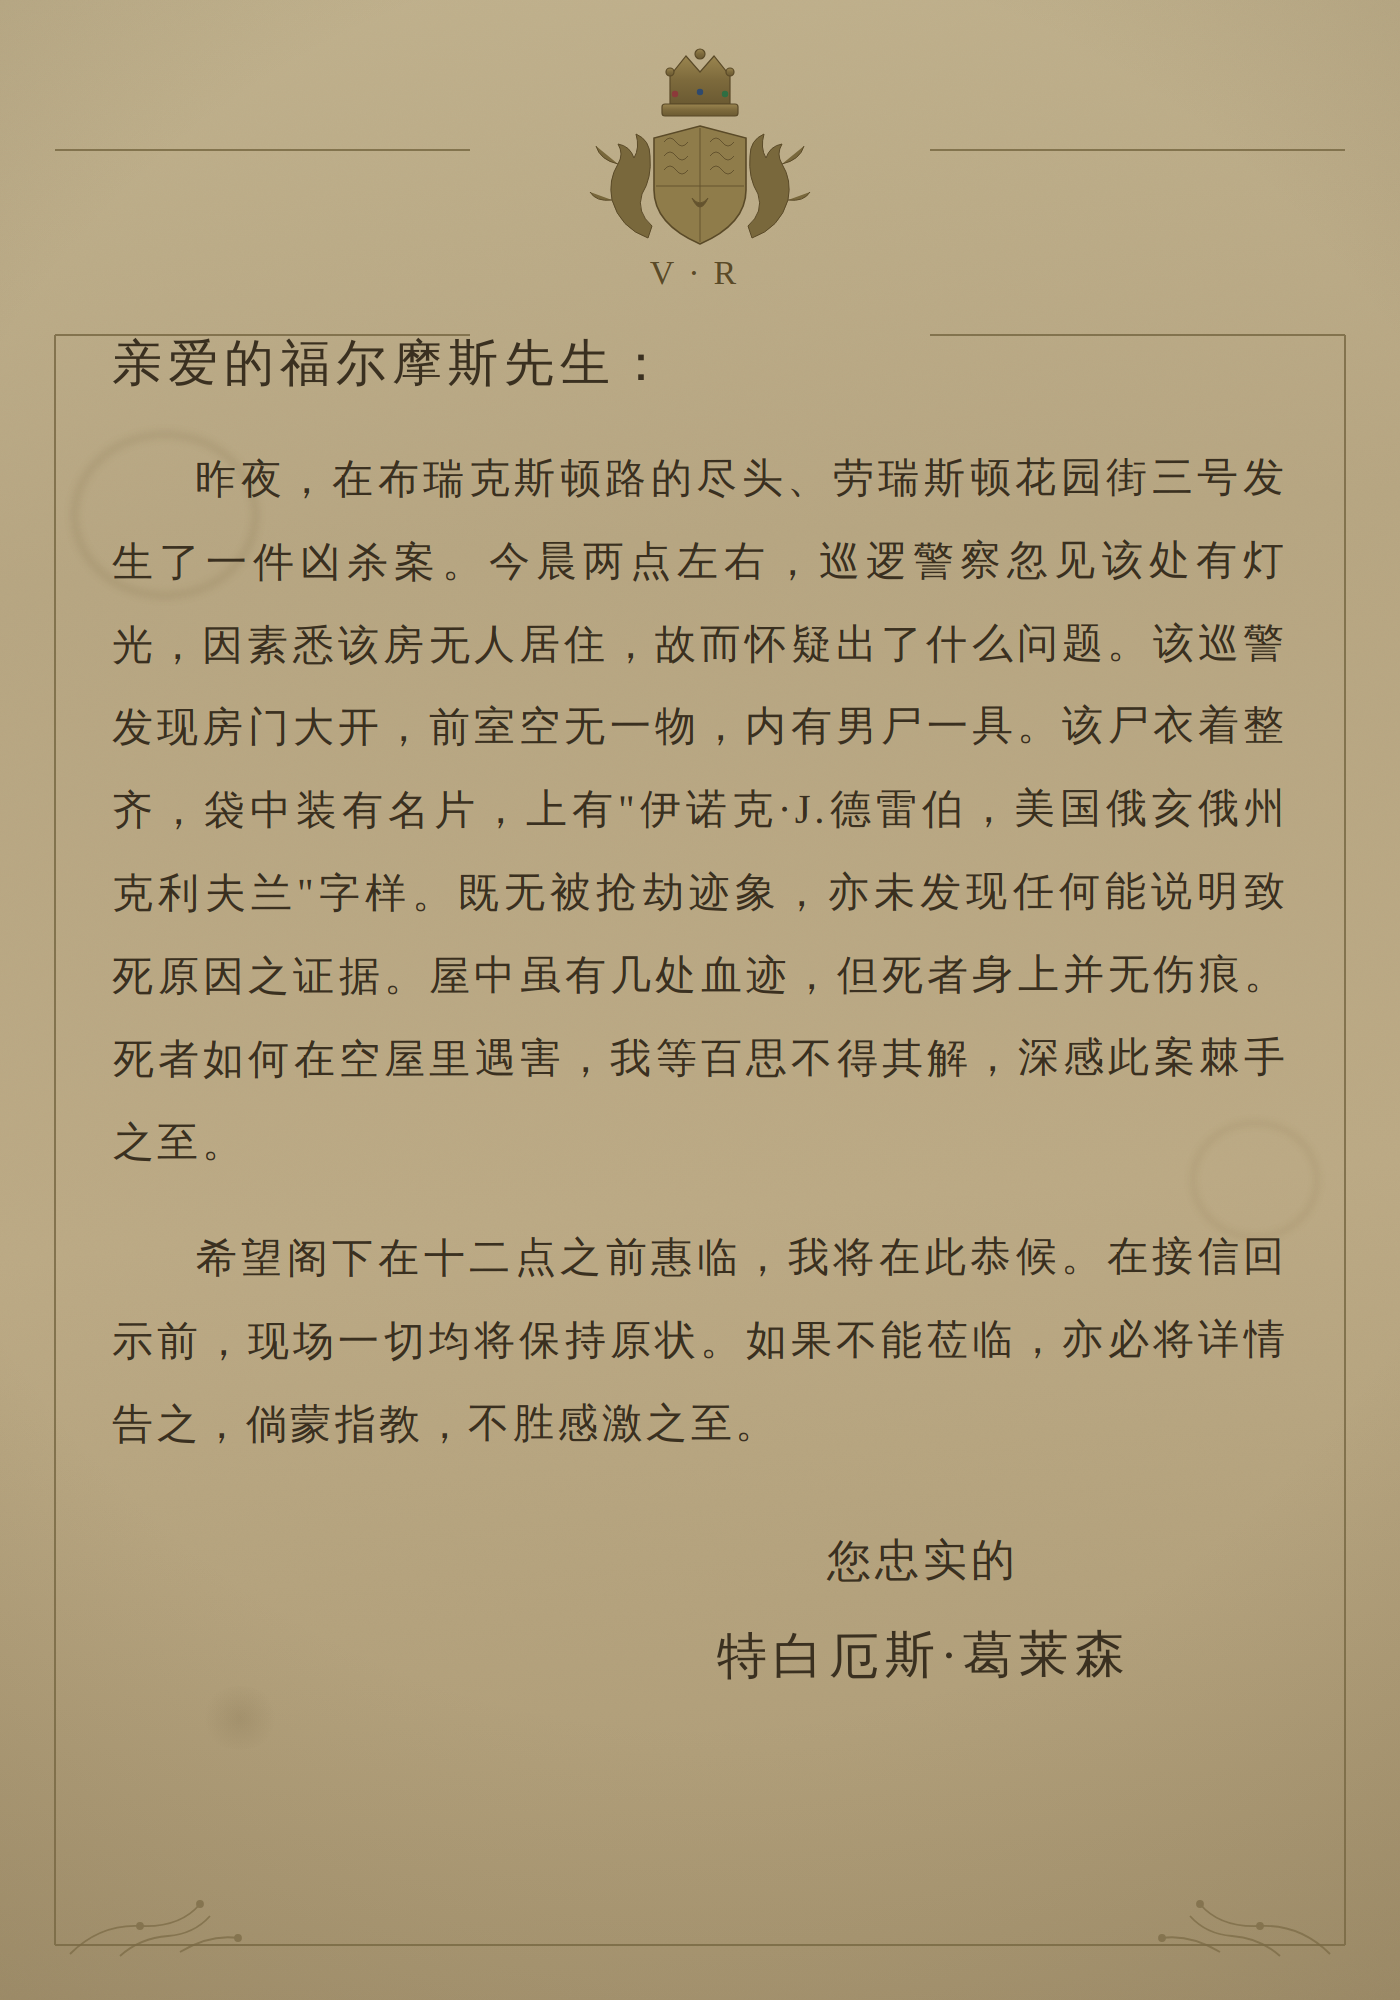
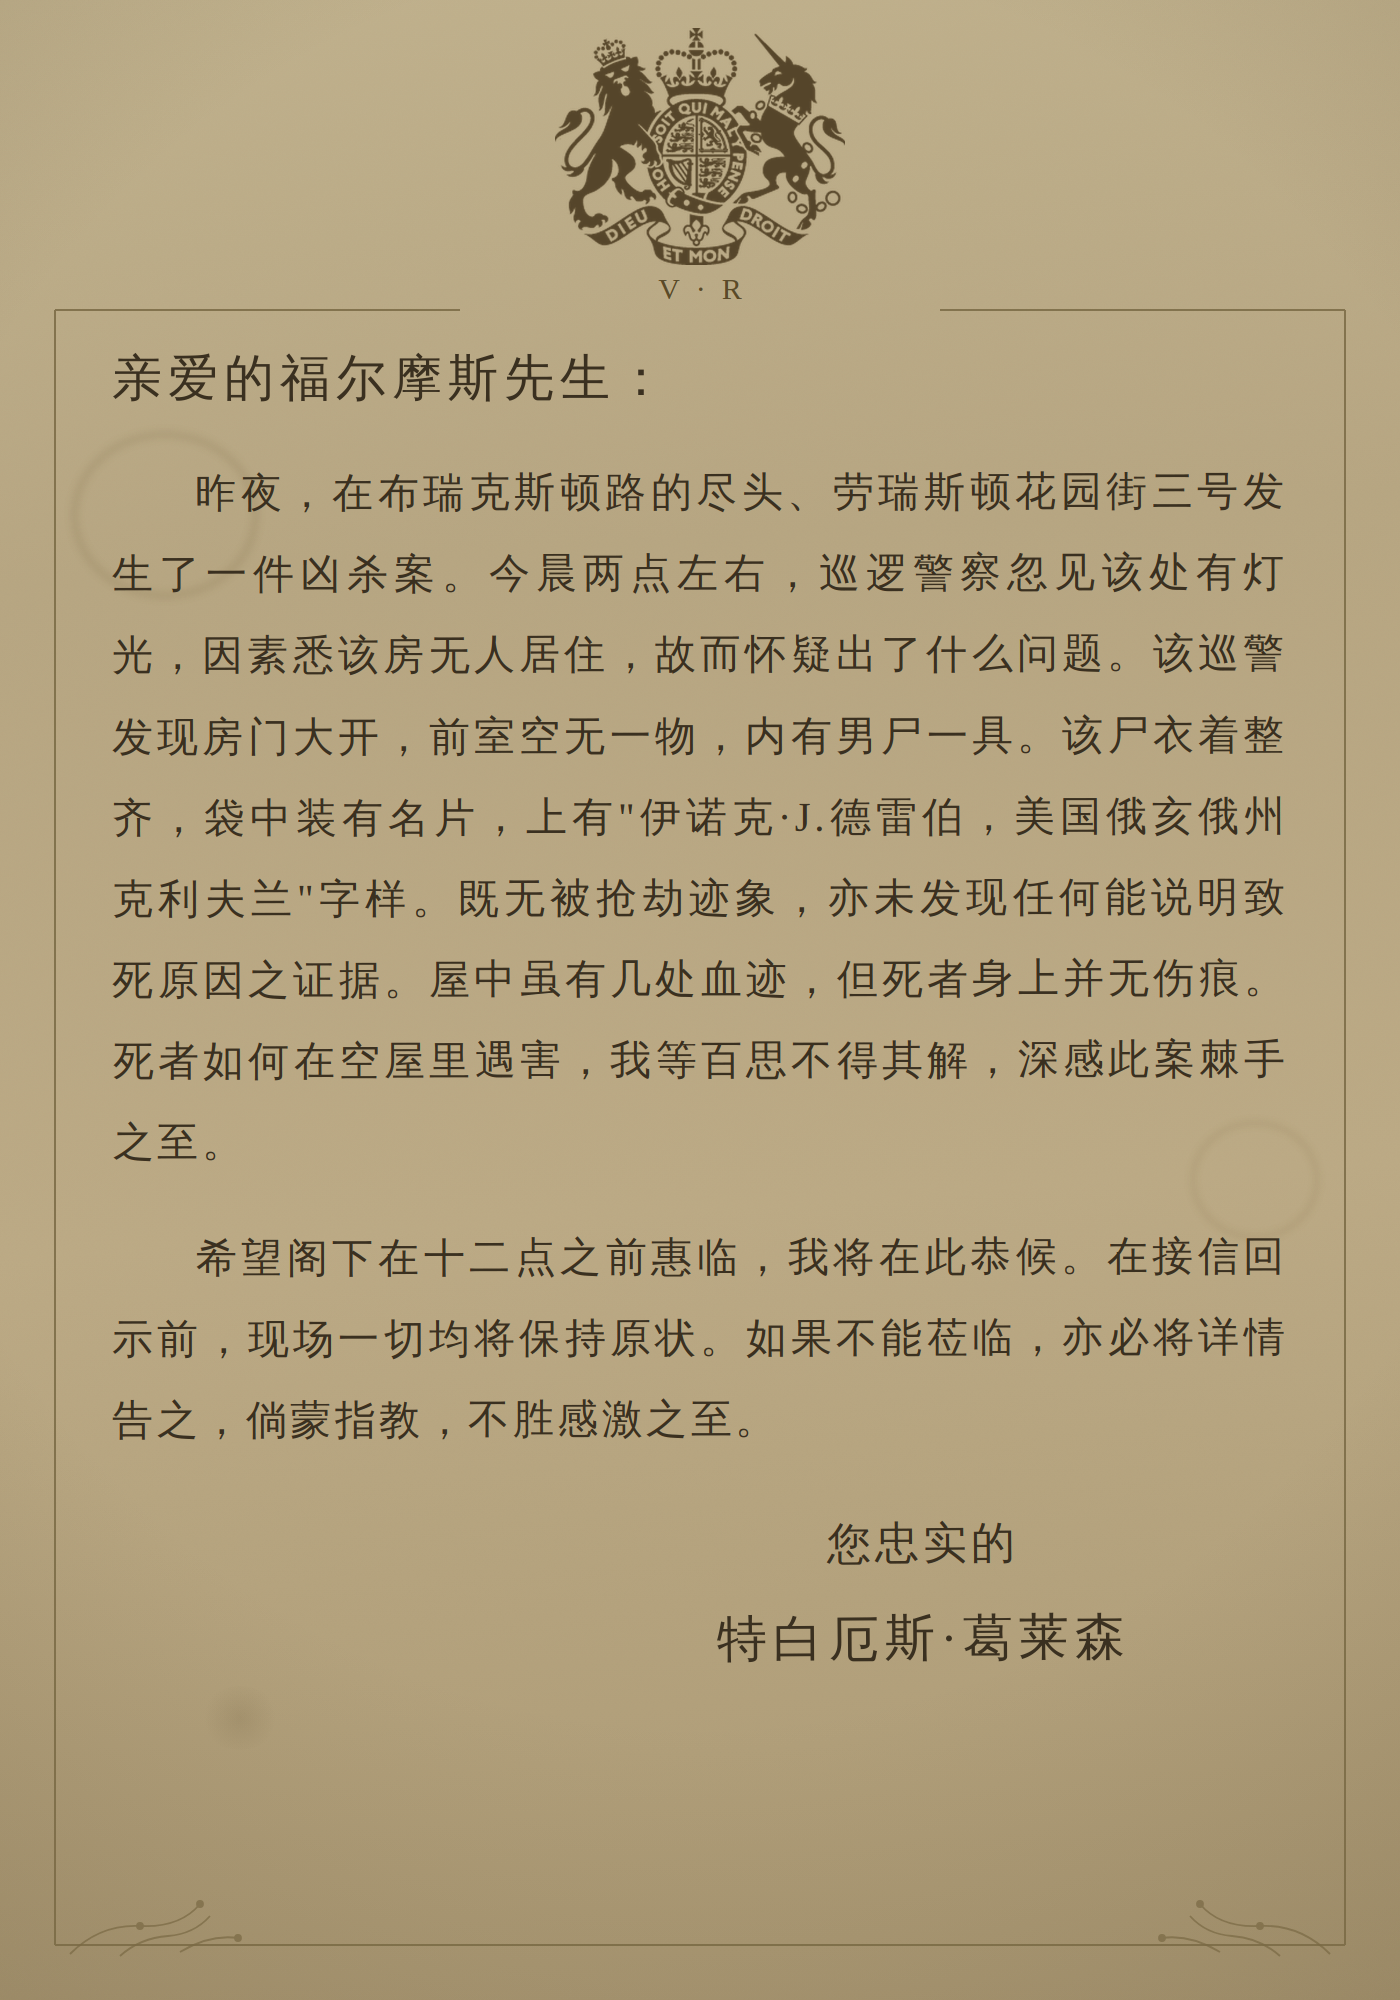
fix(素材): 信笺皇家纹章改用 GOV.UK 官方纹章资产（替换手绘 SVG）
Coze-Commit-Type: user
Coze-User-ID: 1065887343319849
Coze-Conversation-ID: 10830780

diff --git a/assets/ui_preview/letter_gregson.html b/assets/ui_preview/letter_gregson.html
@@ -21,12 +21,14 @@ body { width:1400px; height:2000px; overflow:hidden; }
 /* 边框：SVG 画三段式（顶部留纹章缺口） */
 .frame { position:absolute; inset:0; pointer-events:none; }
 /* 纹章 */
-.crest { position:absolute; left:50%; top:42px; transform:translateX(-50%); width:400px; height:250px; }
+.crest { position:absolute; left:50%; top:28px; transform:translateX(-50%); width:290px; }
+.crest img { display:block; width:100%; }
+.vr { position:absolute; left:0; right:0; top:272px; text-align:center; font-family:Georgia, serif; font-size:30px; letter-spacing:16px; color:#5a4a28; text-indent:16px; }
 /* 正文 */
-.inner { position:absolute; left:112px; right:112px; top:330px; bottom:150px; }
+.inner { position:absolute; left:112px; right:112px; top:345px; bottom:150px; }
 .salute { font-size:50px; letter-spacing:6px; margin-bottom:40px; }
-.p { font-size:41px; line-height:2.02; letter-spacing:3.5px; text-align:justify; margin-bottom:34px; text-indent:84px; transform:rotate(-.12deg); }
-.sig { margin-top:52px; margin-left:auto; width:62%; text-align:center; font-size:44px; line-height:2.0; letter-spacing:4px; transform:rotate(-.4deg); }
+.p { font-size:41px; line-height:1.98; letter-spacing:3.5px; text-align:justify; margin-bottom:34px; text-indent:84px; transform:rotate(-.12deg); }
+.sig { margin-top:40px; margin-left:auto; width:62%; text-align:center; font-size:44px; line-height:2.0; letter-spacing:4px; transform:rotate(-.4deg); }
 .sig .name { font-size:50px; letter-spacing:6px; }
 /* 底部角花 */
 .corner { position:absolute; bottom:36px; width:300px; height:100px; opacity:.8; }
@@ -39,50 +41,16 @@ body { width:1400px; height:2000px; overflow:hidden; }
 
   <svg class="frame" viewBox="0 0 1400 2000" preserveAspectRatio="none">
     <g stroke="#7a6a45" stroke-width="2" fill="none" opacity=".85">
-      <line x1="55" y1="335" x2="55" y2="1945"/>
-      <line x1="1345" y1="335" x2="1345" y2="1945"/>
+      <line x1="55" y1="310" x2="55" y2="1945"/>
+      <line x1="1345" y1="310" x2="1345" y2="1945"/>
       <line x1="55" y1="1945" x2="1345" y2="1945"/>
-      <line x1="55" y1="335" x2="470" y2="335"/>
-      <line x1="930" y1="335" x2="1345" y2="335"/>
-      <line x1="55" y1="150" x2="470" y2="150"/>
-      <line x1="930" y1="150" x2="1345" y2="150"/>
+      <line x1="55" y1="310" x2="460" y2="310"/>
+      <line x1="940" y1="310" x2="1345" y2="310"/>
     </g>
   </svg>
 
-  <svg class="crest" viewBox="0 0 400 250">
-    <defs>
-      <linearGradient id="gold" x1="0" y1="0" x2="0" y2="1">
-        <stop offset="0%" stop-color="#9a854f"/><stop offset="50%" stop-color="#7d6a3c"/><stop offset="100%" stop-color="#6b5a32"/>
-      </linearGradient>
-    </defs>
-    <!-- 皇冠 -->
-    <g fill="url(#gold)" stroke="#5a4a28" stroke-width="1.2">
-      <path d="M170 62 L170 34 L186 14 L200 30 L214 14 L230 34 L230 62 Z"/>
-      <circle cx="170" cy="30" r="4"/><circle cx="200" cy="12" r="5"/><circle cx="230" cy="30" r="4"/>
-      <rect x="162" y="62" width="76" height="12" rx="3"/>
-      <circle cx="175" cy="52" r="3.2" fill="#8c3a3a" stroke="none"/><circle cx="200" cy="50" r="3.2" fill="#2f4a6e" stroke="none"/><circle cx="225" cy="52" r="3.2" fill="#2f6e42" stroke="none"/>
-    </g>
-    <!-- 盾 -->
-    <g fill="#8f7c4a" stroke="#5a4a28" stroke-width="1.6">
-      <path d="M200 84 L246 96 L246 148 Q246 182 200 202 Q154 182 154 148 L154 96 Z"/>
-    </g>
-    <g stroke="#5a4a28" stroke-width="1" opacity=".8" fill="none">
-      <line x1="200" y1="86" x2="200" y2="200"/>
-      <line x1="156" y1="144" x2="244" y2="144"/>
-      <path d="M164 100 q6 -8 12 0 q6 8 12 0 M164 114 q6 -8 12 0 q6 8 12 0 M164 128 q6 -8 12 0 q6 8 12 0" />
-      <path d="M210 100 q6 -8 12 0 q6 8 12 0 M210 114 q6 -8 12 0 q6 8 12 0 M210 128 q6 -8 12 0 q6 8 12 0" />
-      <path d="M192 156 q8 10 16 0 q-8 18 -16 0" fill="#5a4a28"/>
-    </g>
-    <!-- 双狮剪影 -->
-    <g fill="#79683c" stroke="#5a4a28" stroke-width="1">
-      <path d="M148 196 Q120 186 112 158 Q108 138 118 122 Q124 112 118 102 Q130 104 134 116 Q140 106 136 92 Q150 98 150 114 Q152 136 142 152 Q136 170 152 184 Z"/>
-      <path d="M118 122 Q100 118 96 104 M112 158 Q96 160 90 150"/>
-      <path d="M252 196 Q280 186 288 158 Q292 138 282 122 Q276 112 282 102 Q270 104 266 116 Q260 106 264 92 Q250 98 250 114 Q248 136 258 152 Q264 170 248 184 Z"/>
-      <path d="M282 122 Q300 118 304 104 M288 158 Q304 160 310 150"/>
-    </g>
-    <!-- V.R. -->
-    <text x="200" y="242" font-family="Georgia, serif" font-size="34" letter-spacing="14" fill="#5a4a28" text-anchor="middle">V·R</text>
-  </svg>
+  <div class="crest"><img src="crest_royal_tinted.png" alt=""></div>
+  <div class="vr">V·R</div>
 
   <div class="inner">
     <div class="salute">亲爱的福尔摩斯先生：</div>
